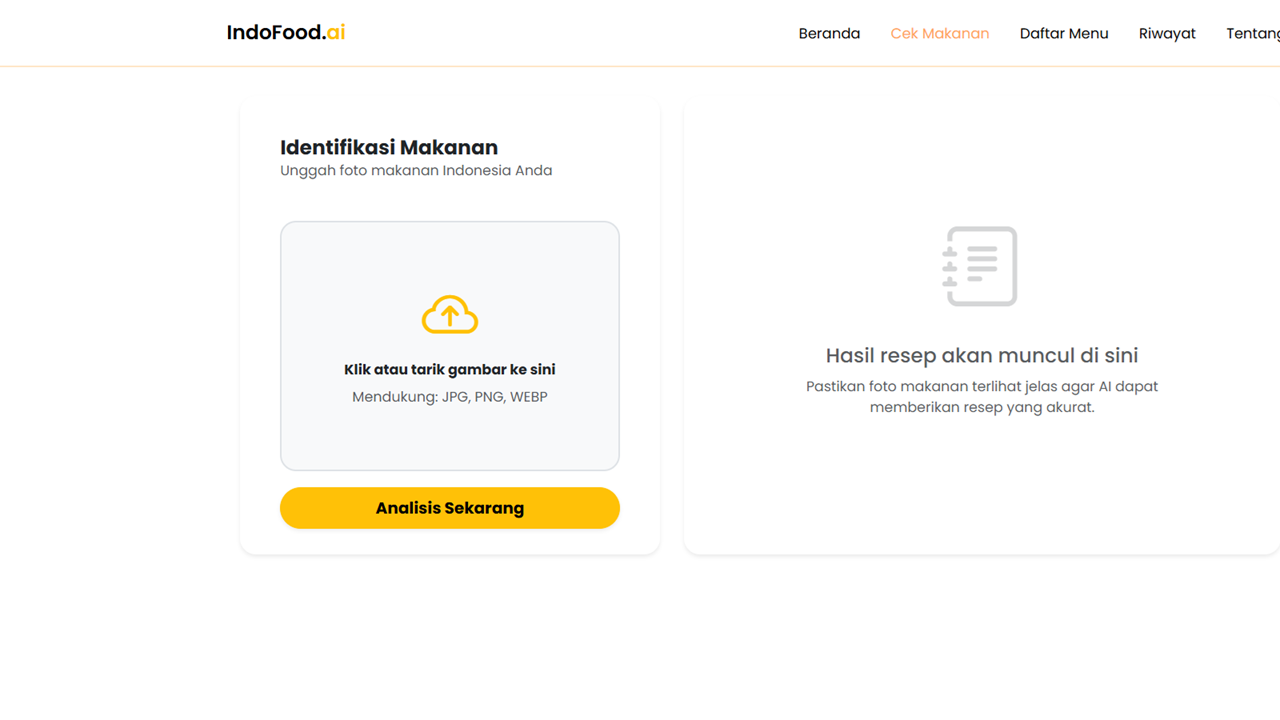
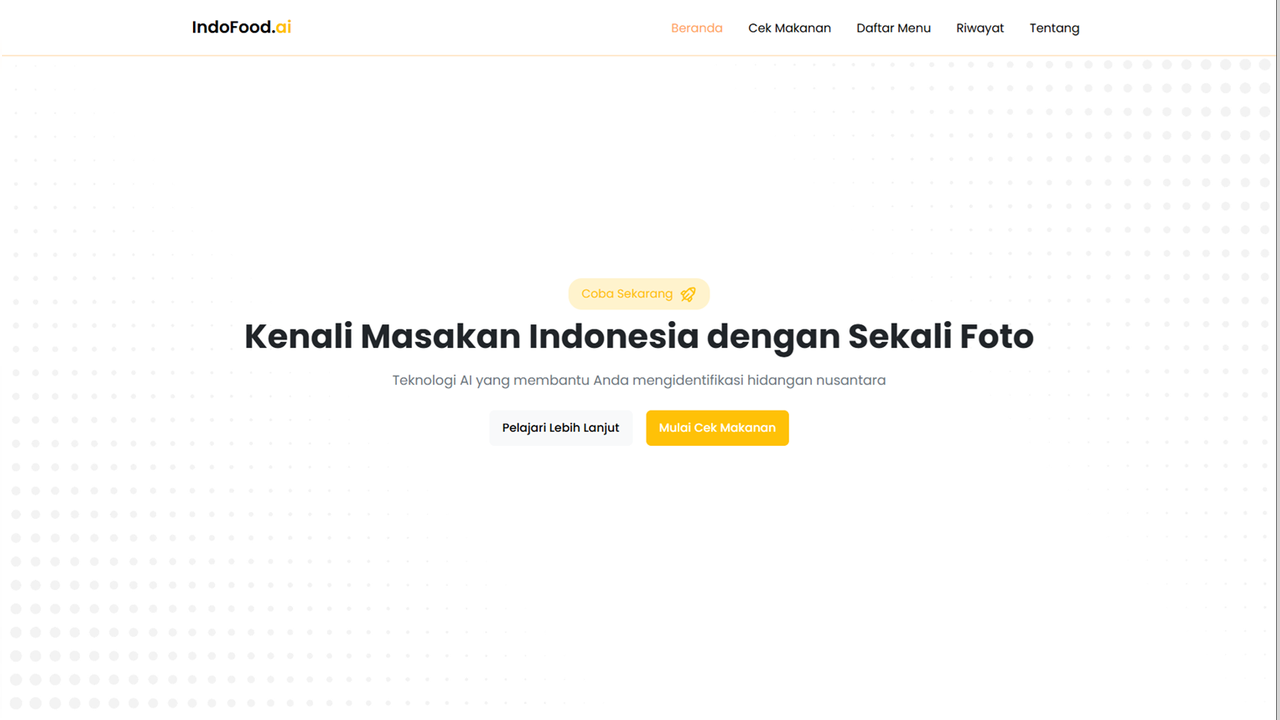
deleting package/cdn/module that not used

diff --git a/src/templates/index.html b/src/templates/index.html
@@ -10,16 +10,11 @@
     <link rel="manifest" href="/manifest.json" />
     <meta name="theme-color" content="#f4b400" />
     <title>IndoFood.ai | Klasifikasi Makanan Indonesia</title>
-    <link rel="stylesheet" href="https://cdn.lineicons.com/5.0/lineicons.css" />
     <link
       href="https://cdn.jsdelivr.net/npm/bootstrap@5.3.3/dist/css/bootstrap.min.css"
       rel="stylesheet"
       integrity="sha384-QWTKZyjpPEjISv5WaRU9OFeRpok6YctnYmDr5pNlyT2bRjXh0JMhjY6hW+ALEwIH"
       crossorigin="anonymous"
-    />
-    <link
-      rel="stylesheet"
-      href="https://cdn.jsdelivr.net/npm/swiper/swiper-bundle.min.css"
     />
     <!-- Bootstrap Icons -->
     <link
@@ -36,7 +31,5 @@
       integrity="sha384-YvpcrYf0tY3lHB60NNkmXc5s9fDVZLESaAA55NDzOxhy9GkcIdslK1eN7N6jIeHz"
       crossorigin="anonymous"
     ></script>
-    <script src="https://cdn.jsdelivr.net/npm/swiper/swiper-bundle.min.js"></script>
-    <script src="https://cdn.jsdelivr.net/npm/marked/marked.min.js"></script>
   </body>
 </html>

diff --git a/src/styles/navbar.css b/src/styles/navbar.css
@@ -39,10 +39,13 @@
   font-weight: 400;
   font-size: 0.9rem;
   color: #000;
+  transition: color 0.25s ease;
 }
 
-.nav-link:hover {
-  color: #ffa559;
+.nav-link:hover,
+.nav-link.active,
+.nav-link[aria-current="page"] {
+  color: #ffa559 !important;
 }
 
 @media (min-width: 600px) and (max-width: 1080px) {

diff --git a/src/scripts/index.js b/src/scripts/index.js
@@ -1,6 +1,4 @@
-import 'aos/dist/aos.css';
 import 'lazysizes';
-import 'quill/dist/quill.snow.css';
 import '../styles/main.css';
 import Main from './app';
 import setActiveNavbar from './utils/navbarActive';

diff --git a/src/styles/main.css b/src/styles/main.css
@@ -154,13 +154,3 @@
     border-radius: 5px;
   }
 }
-
-.nav-link {
-  transition: color 0.25s ease;
-}
-
-.nav-link:hover,
-.nav-link.active,
-.nav-link[aria-current="page"] {
-  color: #ffa559 !important;
-}
